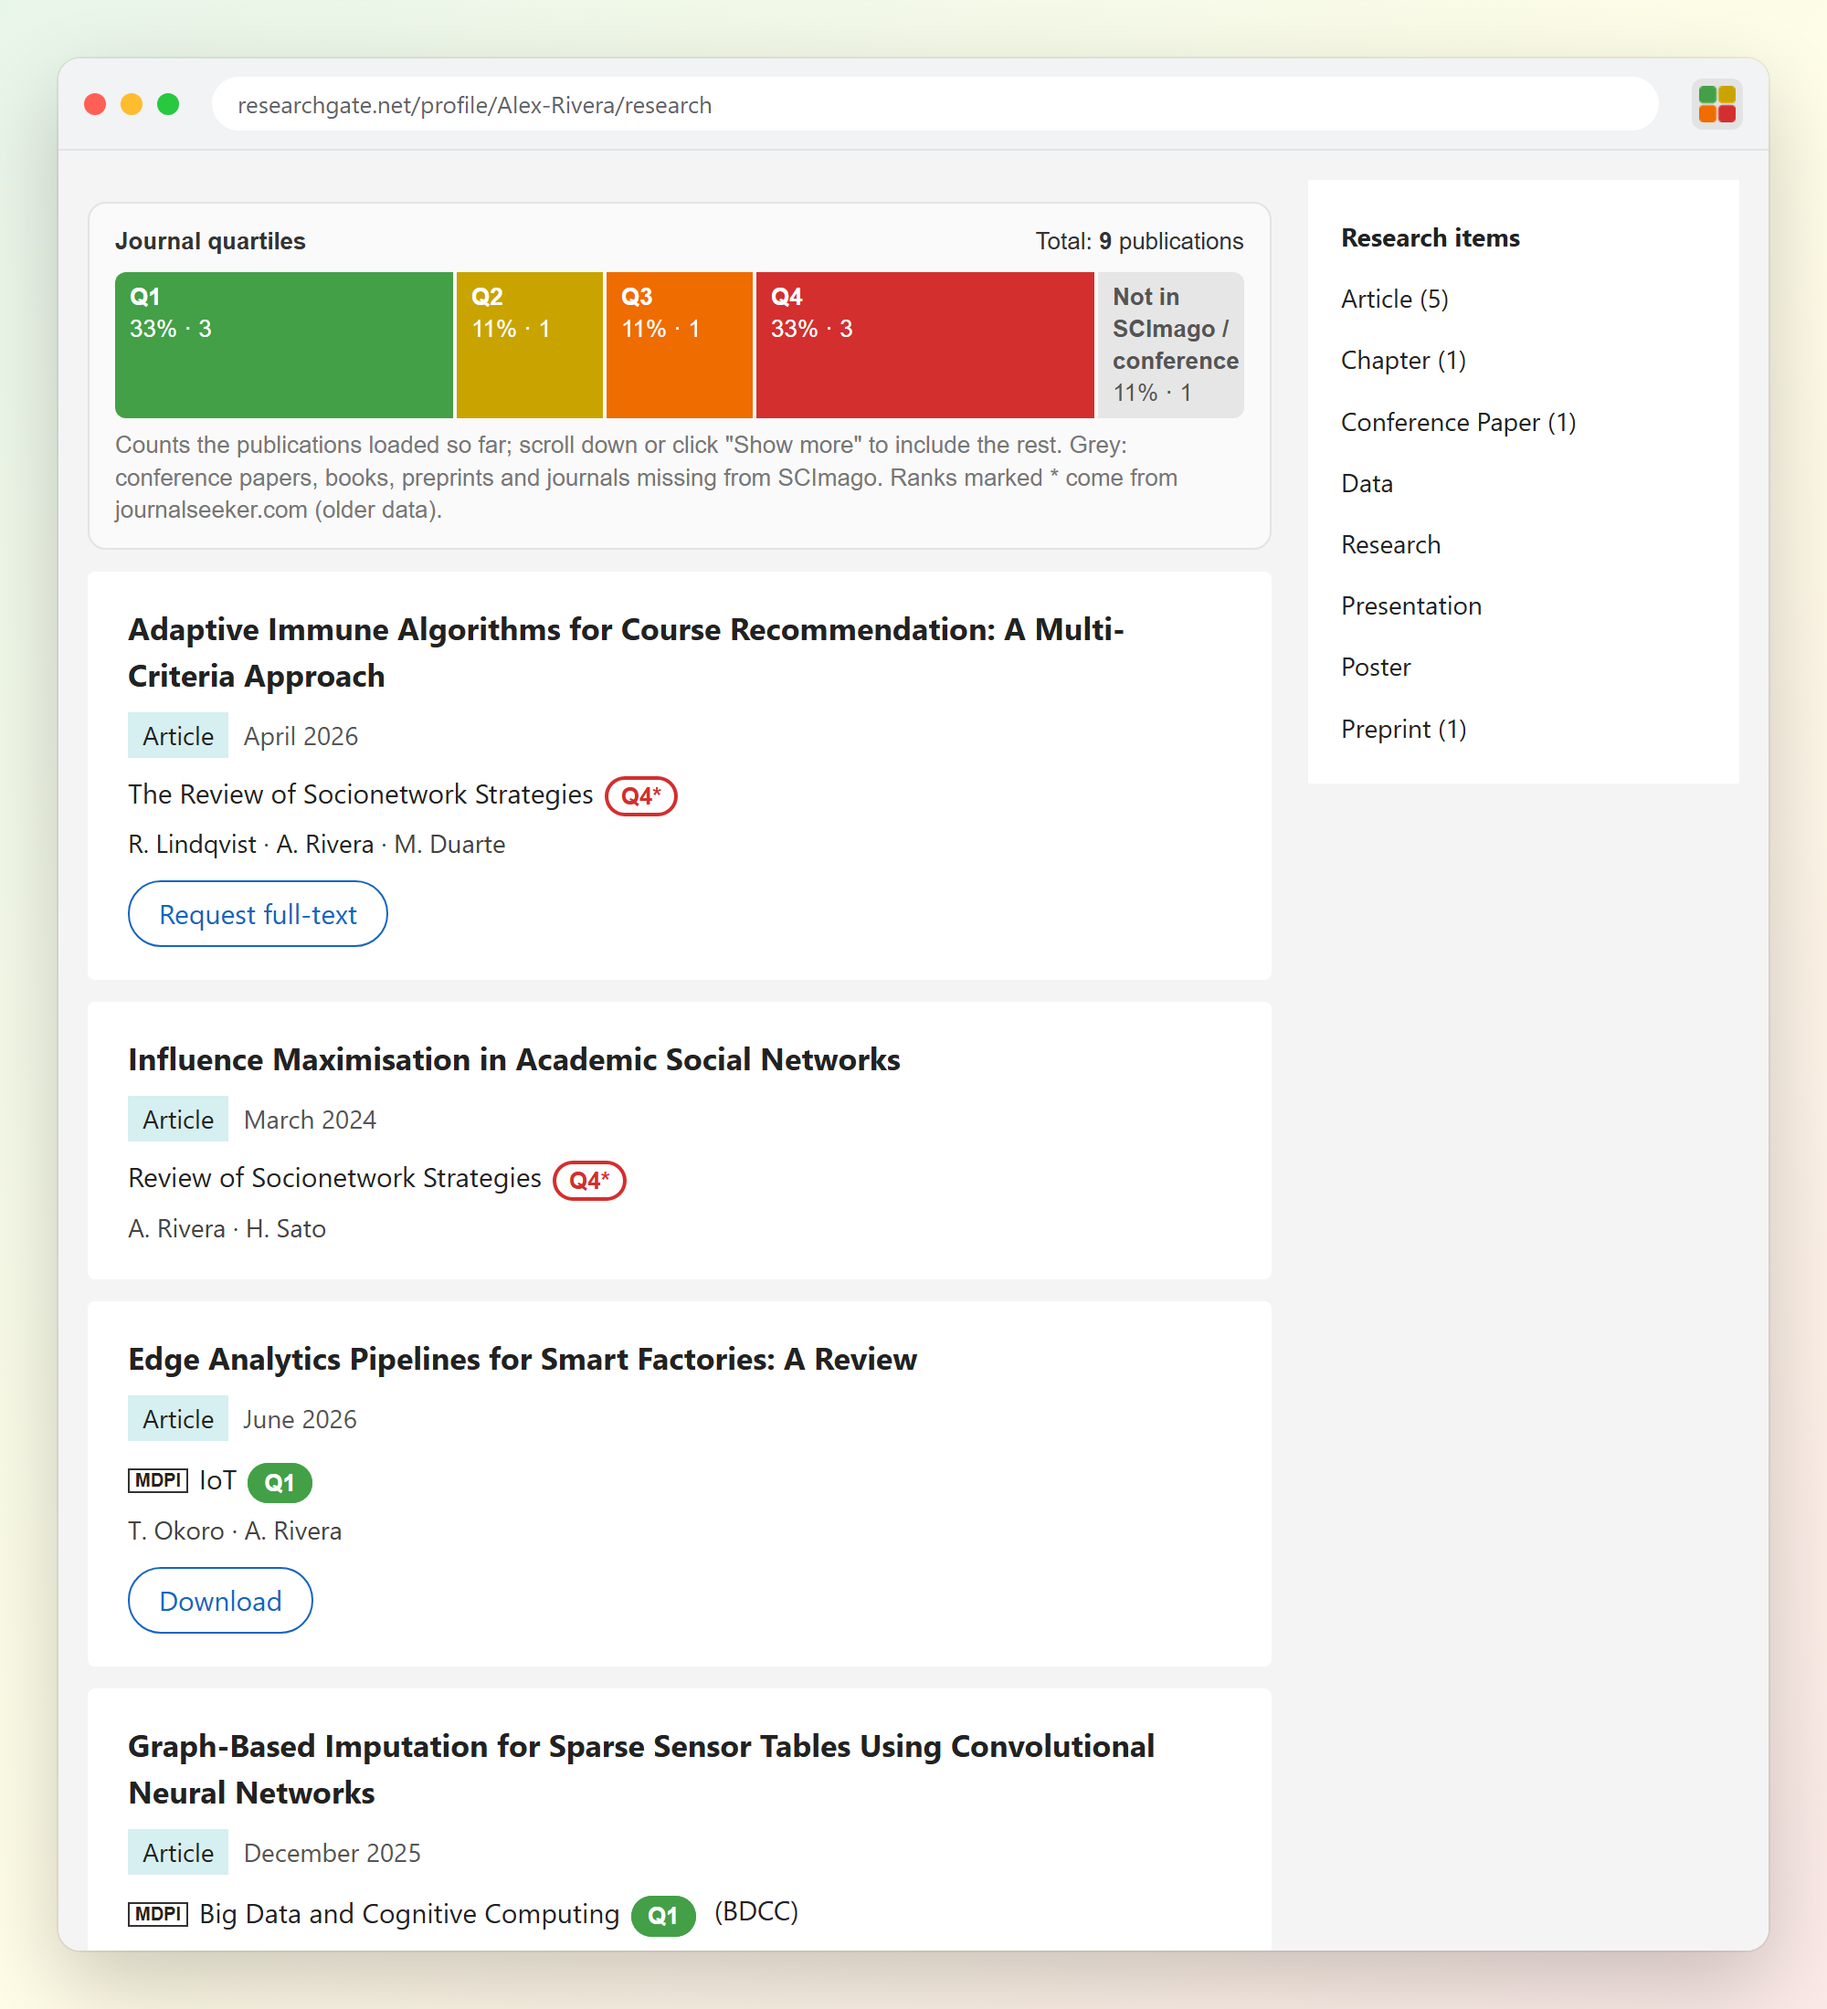
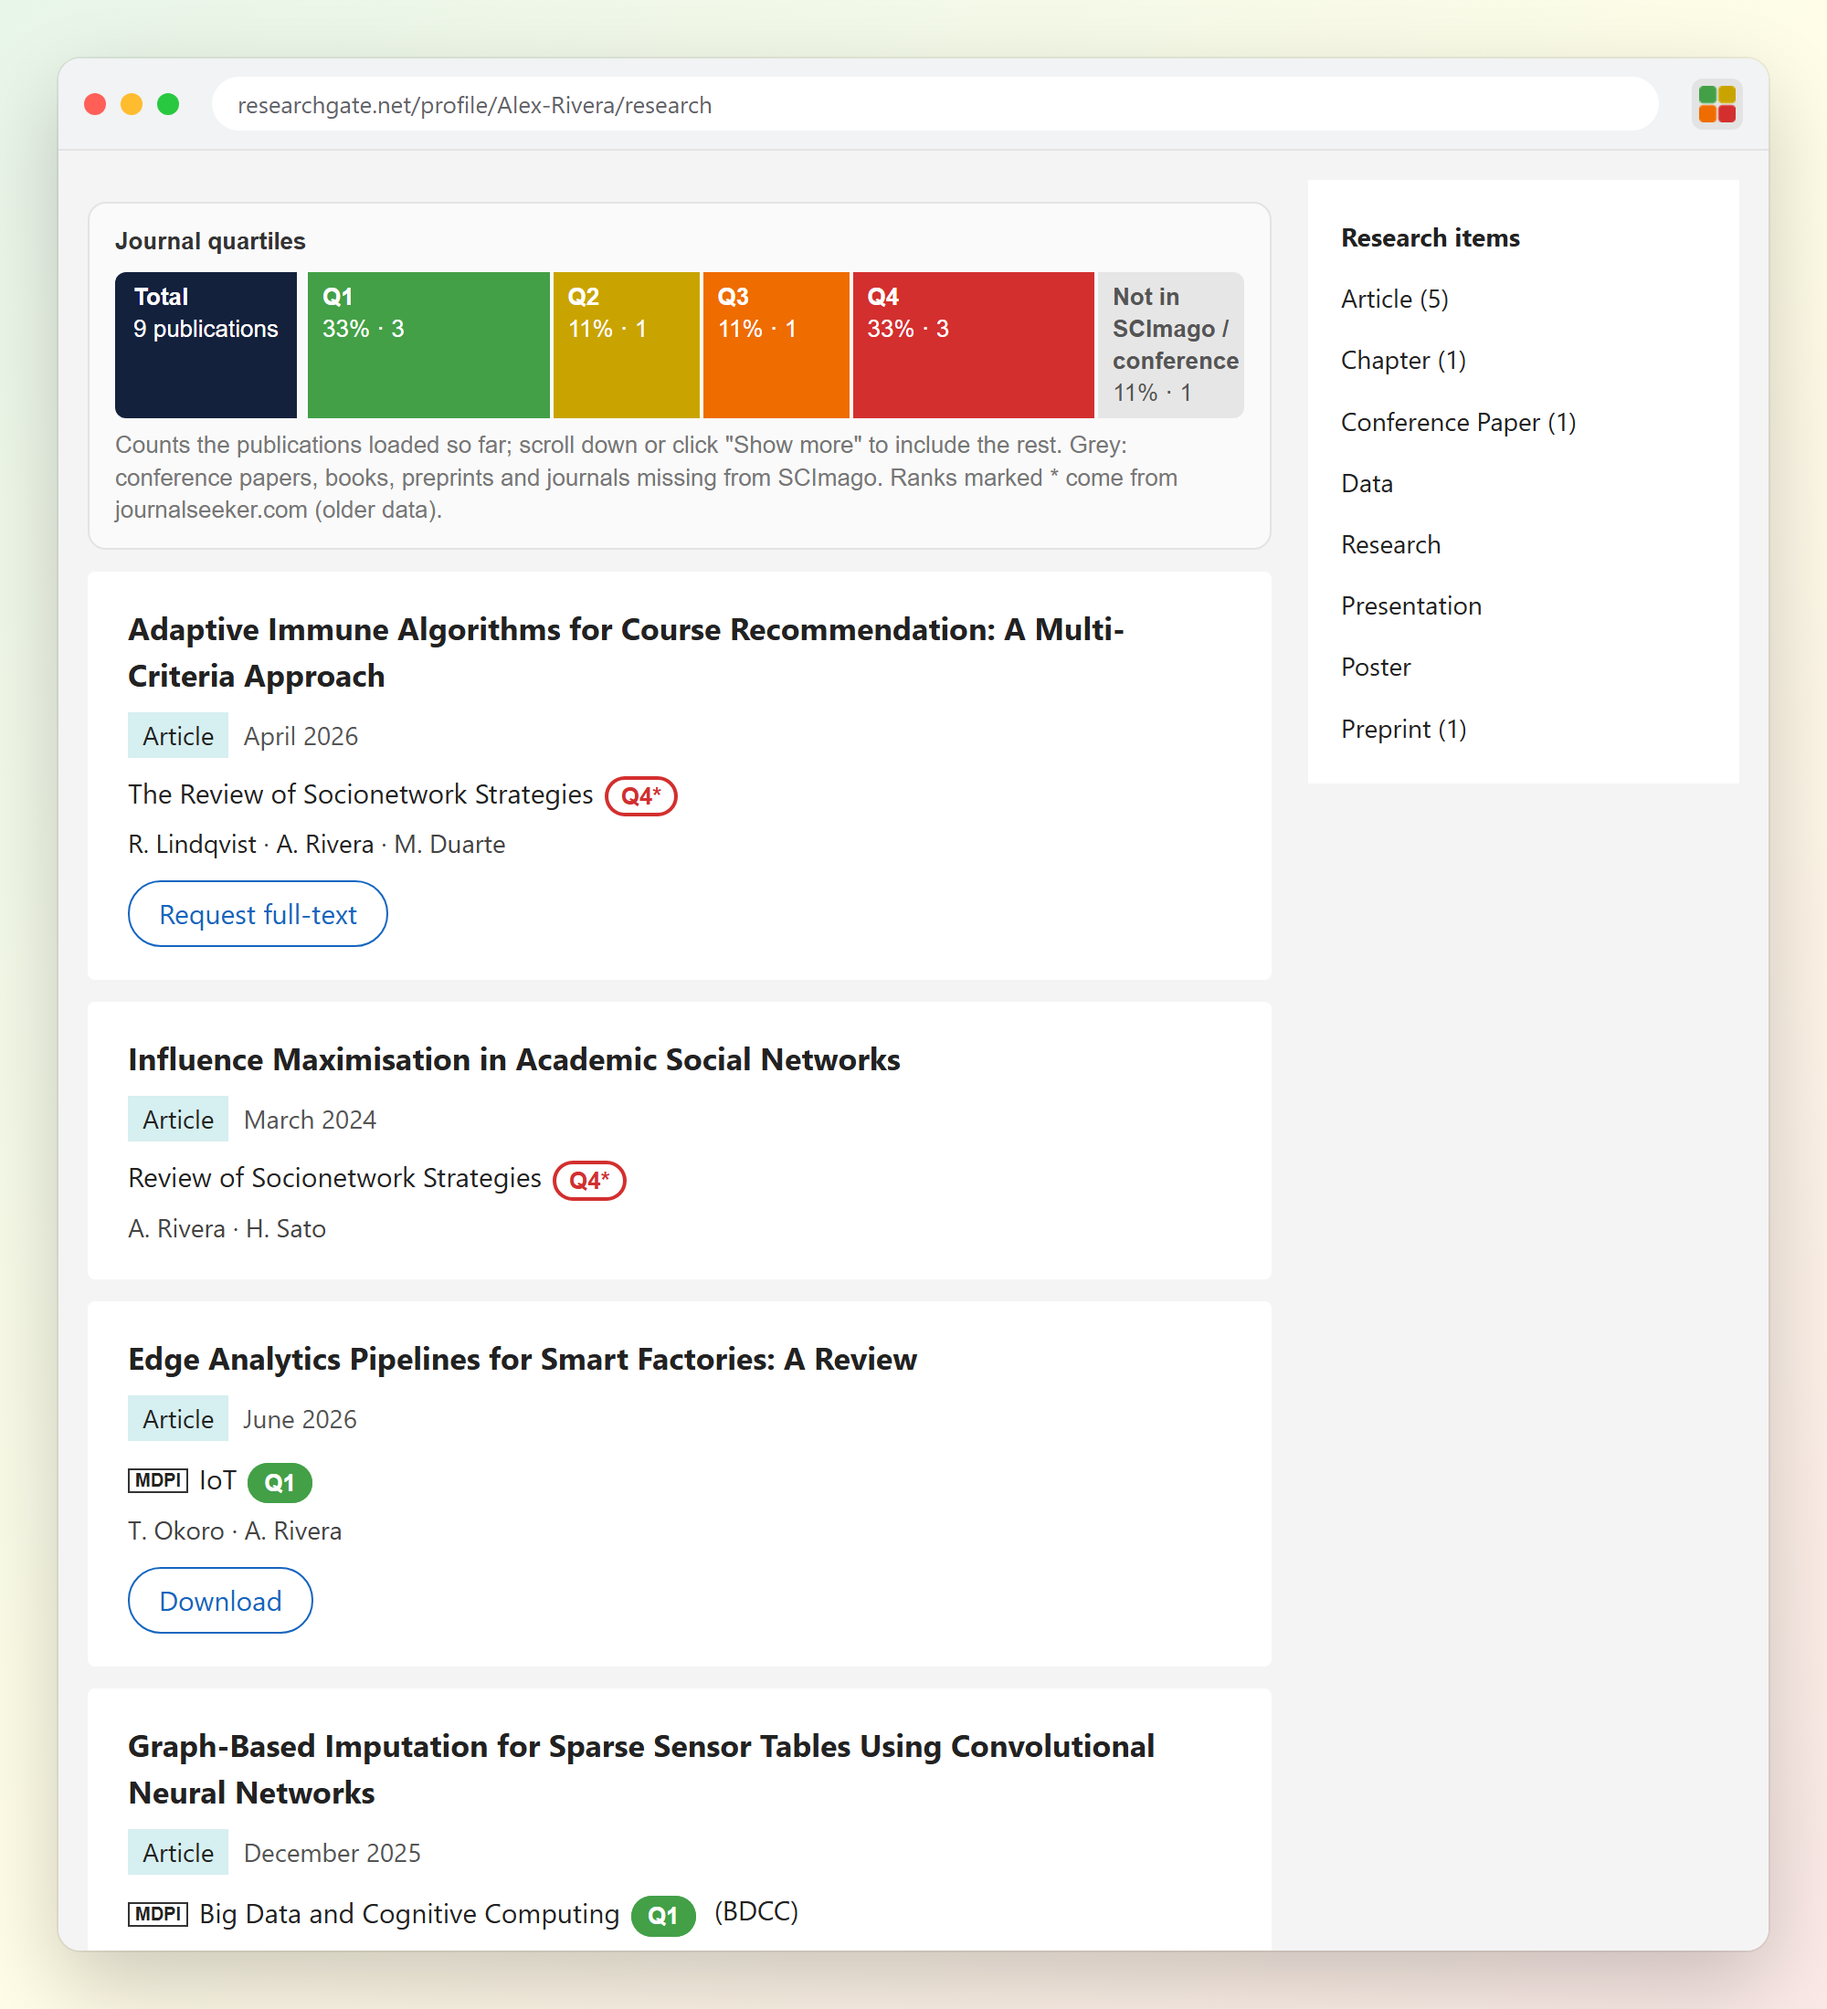
Profile summary: total shown as a coloured block at the start of the bar

Changed region(s): [[0.248, 0.1236, 0.496, 0.2164], [0.062, 0.1236, 0.186, 0.2164], [0.589, 0.0927, 0.682, 0.1236]]

diff --git a/content.js b/content.js
@@ -180,9 +180,9 @@ function summary(items = profileItems()) {
   box.dataset.key = key;
   box.style.cssText = 'margin:12px 0;padding:12px 14px;border:1px solid #e3e3e3;border-radius:10px;background:#fafafa;' +
     'font:13px/1.35 sans-serif;color:#333;text-align:left';
-  box.innerHTML = '<div style="display:flex;justify-content:space-between;gap:12px"><b>Journal quartiles</b>' +
-    `<span>Total: <b>${seen.size}</b> publication${seen.size === 1 ? '' : 's'}</span></div>` +
-    '<div style="display:flex;gap:2px;margin:8px 0 6px;border-radius:6px;overflow:hidden">' +
+  box.innerHTML = '<b>Journal quartiles</b><div style="display:flex;gap:2px;margin:8px 0 6px;border-radius:6px;overflow:hidden">' +
+    `<div style="flex:none;margin-right:4px;padding:5px 10px;background:#14213d;color:#fff"><b>Total</b><br>` +
+    `${seen.size} publication${seen.size === 1 ? '' : 's'}</div>` +
     ORDER.filter(q => count[q]).map(q => `<div style="flex:${count[q]};min-width:64px;padding:5px 8px;` +
       `background:${q === 'none' ? '#e6e6e6' : COLORS[q]};color:${q === 'none' ? '#555' : '#fff'}">` +
       `<b>${q === 'NR' ? 'Not ranked' : q === 'none' ? 'Not in SCImago / conference' : q}</b><br>` +
